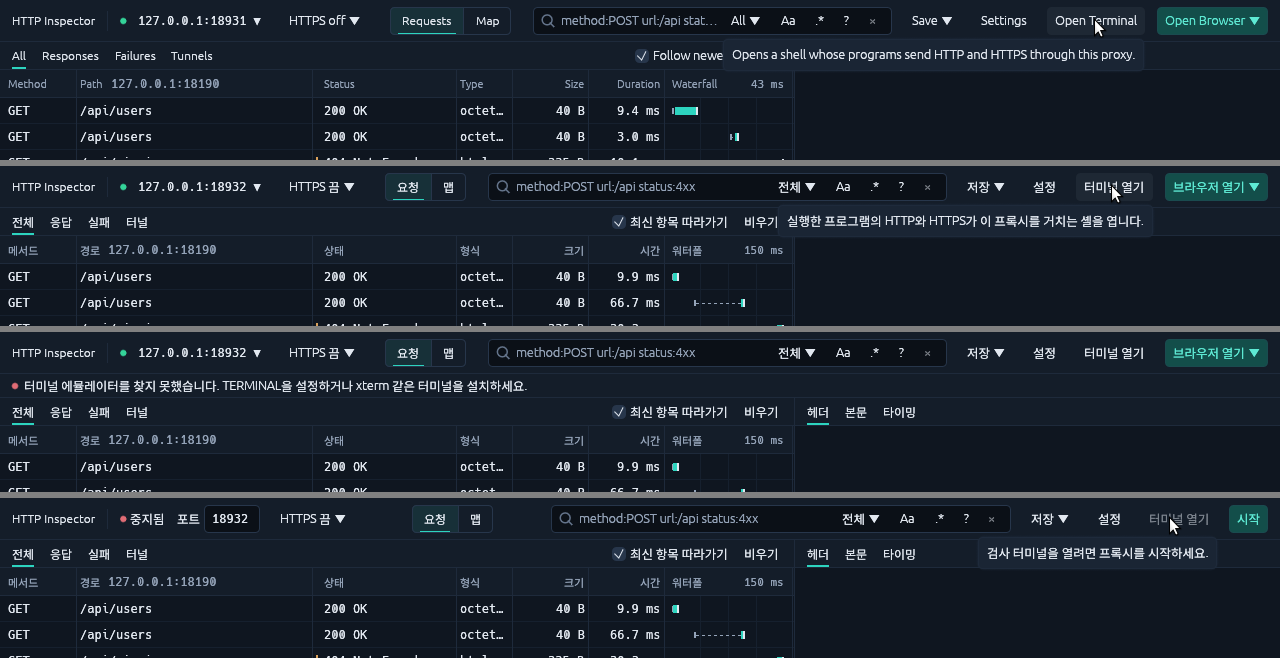
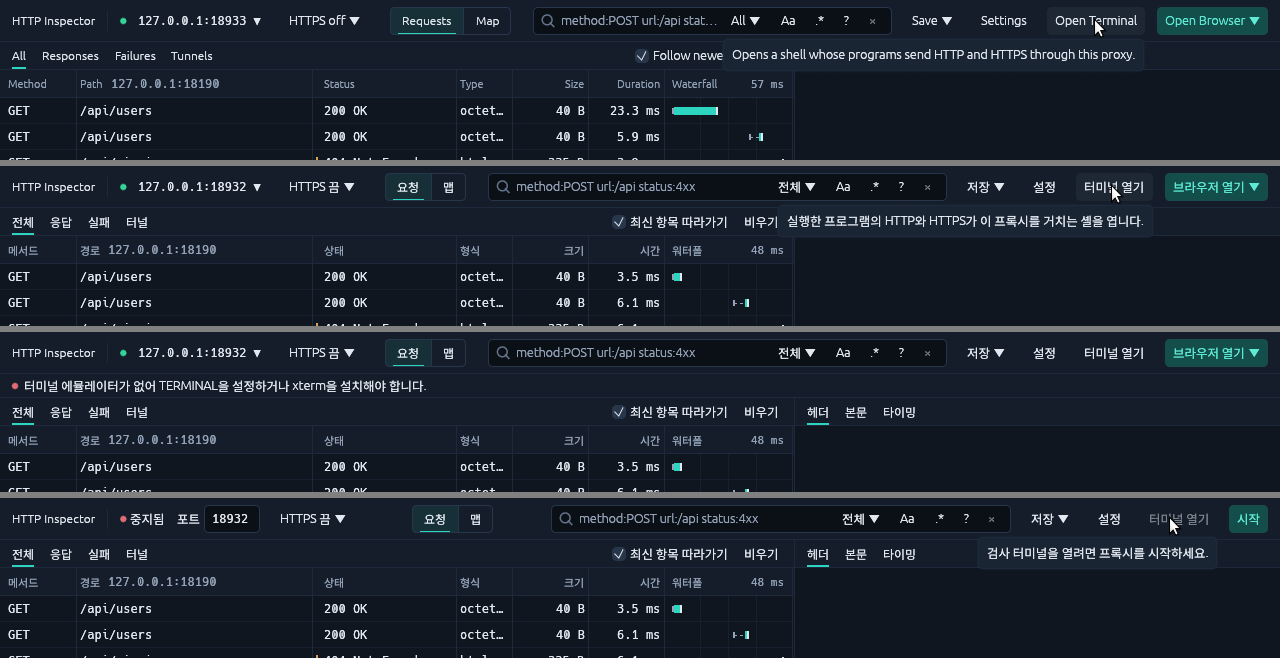
fix: keep the missing terminal notice to one sentence
S1 allows one line for a blocked action; the notice had two sentences.

diff --git a/src/ui/i18n/domain.rs b/src/ui/i18n/domain.rs
@@ -448,8 +448,8 @@ pub(crate) fn terminal_launch_error(lang: Language, error: &TerminalLaunchError)
     match error {
         TerminalLaunchError::NotFound => lang
             .pick(
-                "No terminal emulator found. Set TERMINAL or install one such as xterm.",
-                "터미널 에뮬레이터를 찾지 못했습니다. TERMINAL을 설정하거나 xterm 같은 터미널을 설치하세요.",
+                "No terminal emulator found; set TERMINAL or install xterm.",
+                "터미널 에뮬레이터가 없어 TERMINAL을 설정하거나 xterm을 설치해야 합니다.",
             )
             .to_owned(),
         TerminalLaunchError::ExitedBeforeOpen { terminal, status } => match lang {
